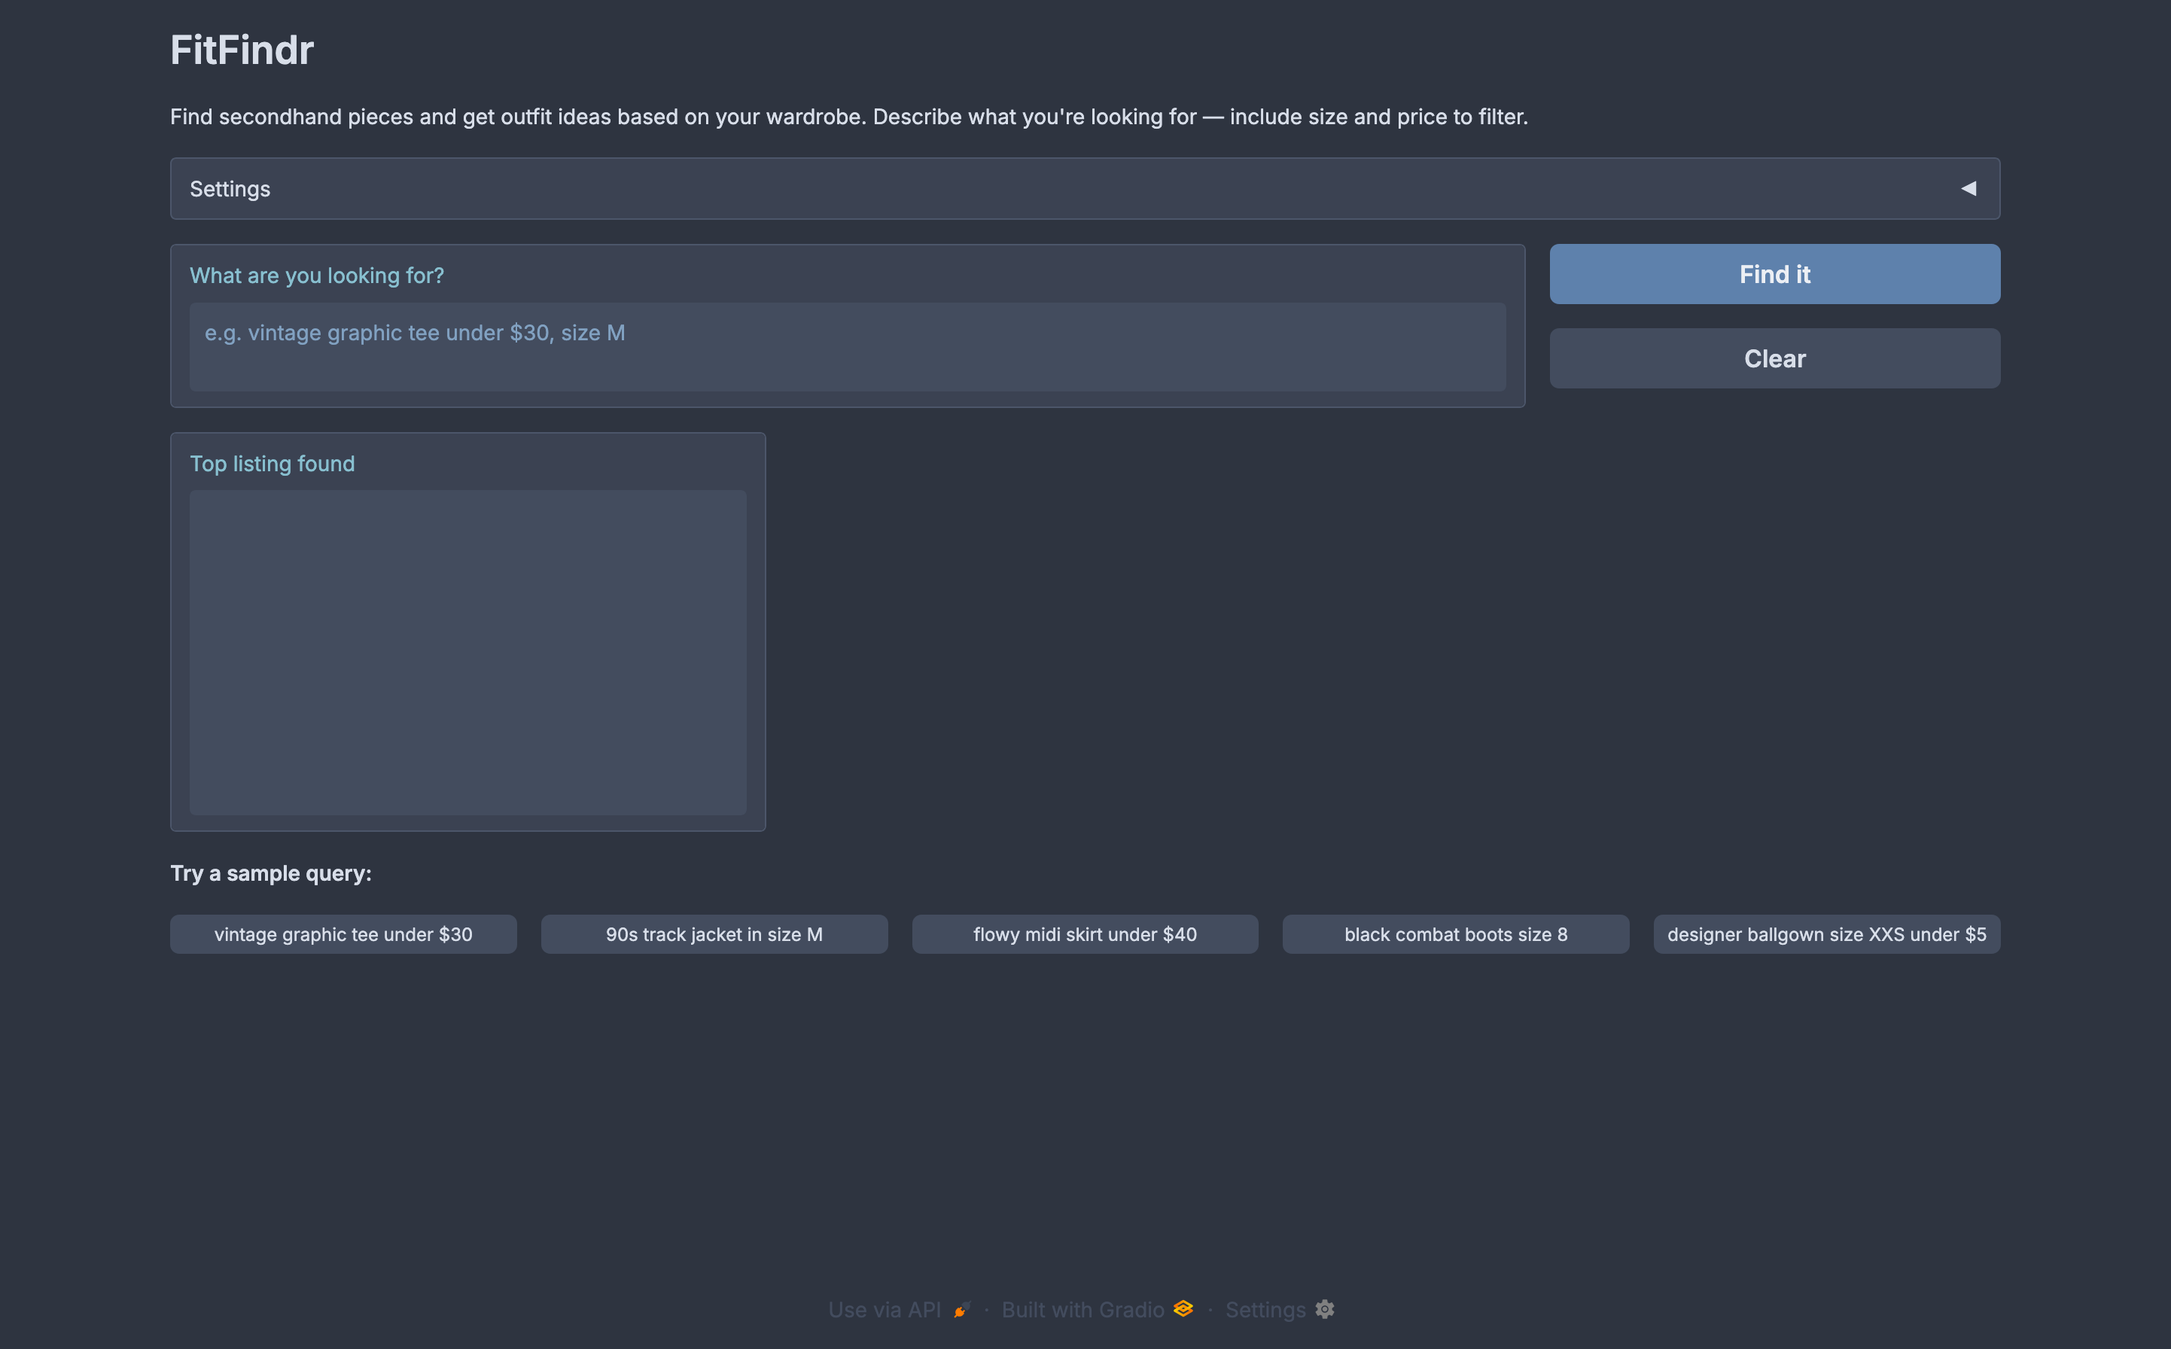
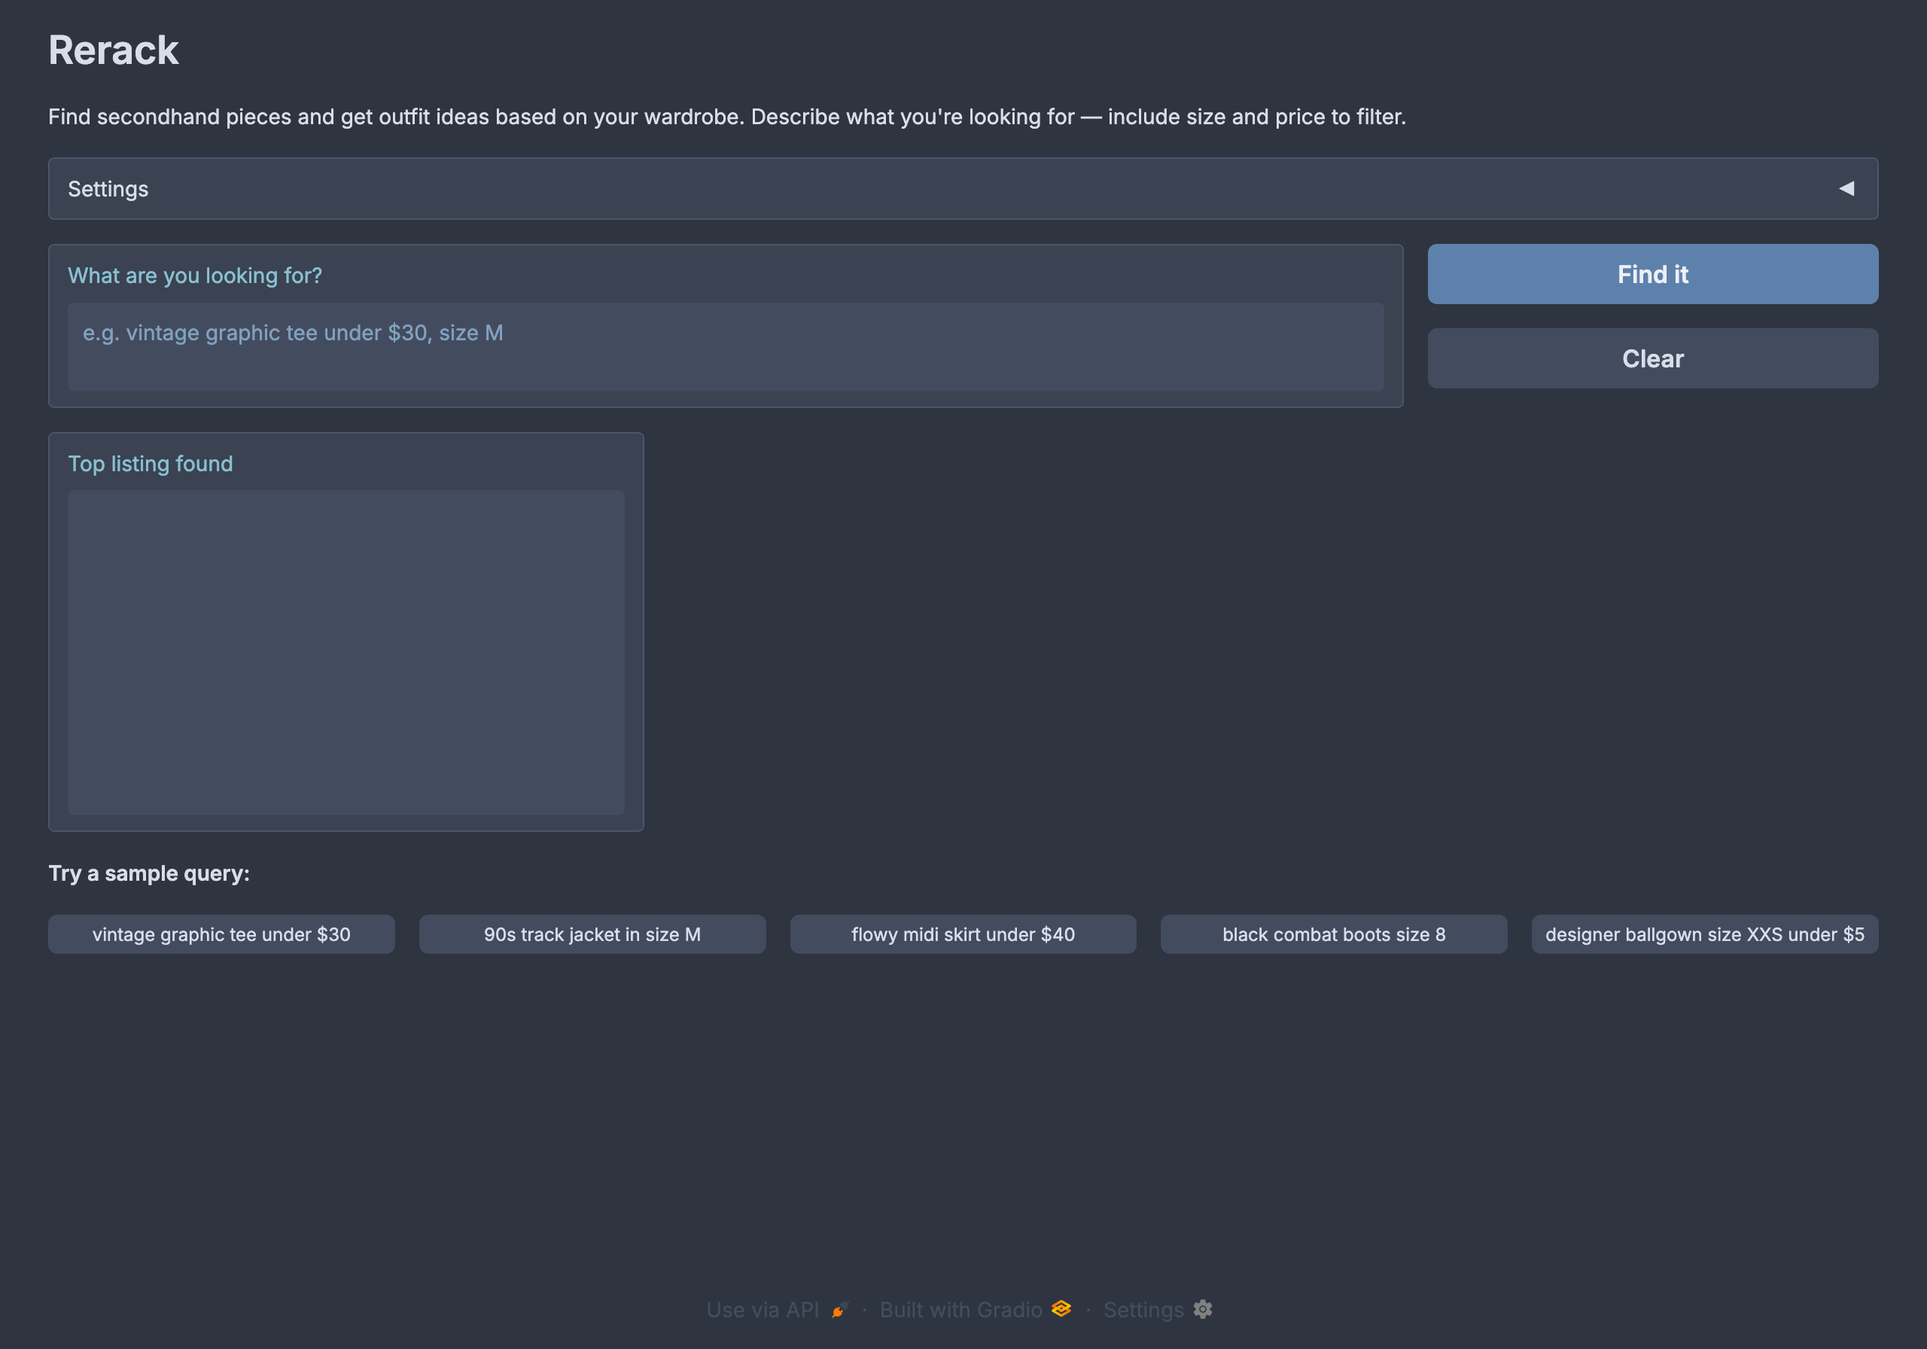
docs: rewrite README, rename project to Rerack, update remote
Condense the README to a standard portfolio template (hero, demo,
about, features, getting started, usage, what-I-learned, roadmap,
license, acknowledgments) and drop content now covered by
docs/ARCHITECTURE.md. Rename the project from FitFindr to Rerack
throughout, and update the clone URL and CI badge to the new remote
(asrarsyed/rerack). Delete two orphaned coursework screenshots
(milestone05.png, pytest.png) that weren't referenced anywhere, and
add a fresh example screenshot alongside an updated home screen.

diff --git a/README.md b/README.md
@@ -1,256 +1,120 @@
-# FitFindr
+<div align="center">
 
-A secondhand clothing finder with AI-powered outfit suggestions. Describe what you're looking for in plain English — FitFindr searches mock listings, compares prices, suggests outfits from your wardrobe, and generates a shareable fit card.
+# Rerack
 
-## Demo Video
+**AI-powered secondhand clothing finder that searches listings, checks prices, and builds outfit ideas from your wardrobe.**
 
-> **Add your video link here:**
-> [Demo Video](YOUR_VIDEO_LINK_HERE)
+[![License](https://img.shields.io/badge/license-MIT-blue.svg)](LICENSE)
+[![tests](https://github.com/asrarsyed/rerack/actions/workflows/tests.yml/badge.svg)](https://github.com/asrarsyed/rerack/actions/workflows/tests.yml)
+![Python](https://img.shields.io/badge/python-3.10%2B-blue.svg)
 
-## Images
-
-> View images [here](images.md)
-
-<!-- Paste a YouTube, Loom, or Google Drive link above. Remove this comment when done. -->
+</div>
 
 ---
 
-## Setup
+## Demo
+
+![Rerack home screen](assets/home.png)
+![Rerack example](assets/example.png)
+
+Describe what you want in plain English. Rerack searches a mock listings dataset, compares prices against similar items, suggests an outfit from your wardrobe, and writes a shareable caption.
+
+*A short demo video/GIF walking through a query is a planned addition, not yet recorded.*
+
+## About
+
+Rerack is a small agent that plans and executes a fixed sequence of tool calls instead of letting an LLM decide what to do next at each step. Given a query like "vintage graphic tee under $30, size M," it parses the request with regex, searches a mock dataset, retries with loosened constraints if nothing matches, benchmarks the price against comparable listings, and calls an LLM twice: once for outfit ideas, once for a caption.
+
+**Why I built this:** to practice designing a deterministic multi-tool agent loop with explicit state management and real error handling, rather than a single prompt-and-hope chat wrapper.
+
+### Built With
+
+- [Python](https://www.python.org/)
+- [Groq](https://groq.com/) (`llama-3.3-70b-versatile`)
+- [Gradio](https://www.gradio.app/)
+- [pytest](https://pytest.org/)
+
+## Features
+
+- **search_listings**: keyword and filter search over 100 mock listings, scored by token overlap.
+- **retry_search**: progressively loosens size and price filters when a search comes up empty.
+- **compare_prices**: benchmarks an item's price against comparable listings in the same category.
+- **suggest_outfit**: LLM-generated outfit ideas, tailored to the user's wardrobe when one exists.
+- **create_fit_card**: LLM-generated shareable caption with price context and hashtags.
+
+See [docs/ARCHITECTURE.md](docs/ARCHITECTURE.md) for the pipeline diagram, tool details, and state management.
+
+## Getting Started
+
+### Prerequisites
 
 ```bash
-pip install -r requirements.txt
+python >= 3.10
 ```
 
-Set your Groq API key (get a free key at [console.groq.com](https://console.groq.com)):
+A free Groq API key from [console.groq.com](https://console.groq.com).
+
+### Installation
 
 ```bash
-# Option A: .env file
-echo "GROQ_API_KEY=your_key_here" > .env
-
-# Option B: direnv (if you have it installed)
-echo 'export GROQ_API_KEY="$(pass api-keys/groq)"' > .envrc
-direnv allow
+git clone git@github.com:asrarsyed/rerack.git
+cd rerack
+pip install -e ".[dev]"
+cp .env.example .env
+# then edit .env and set GROQ_API_KEY
 ```
 
-Run the app:
+### Run
 
 ```bash
 python app.py
 ```
 
-Open the URL shown in the terminal (usually `http://localhost:7860`).
+Open the URL printed in the terminal, usually `http://localhost:7860`.
 
-Run tests:
+### Test
 
 ```bash
-python -m pytest tests/test_tools.py -v  
+pytest
 ```
 
----
+Tests mock the Groq client, so no API key is needed to run the suite.
 
-## Tool Inventory
+## Usage
 
-### Tool 1: `search_listings`
+Example query: "vintage graphic tee under $30, size M."
 
-**File:** `tools.py`
+1. The parser extracts `description="vintage graphic tee"`, `size="M"`, `max_price=30.0`.
+2. `search_listings` returns matches sorted by relevance, then price.
+3. `compare_prices` checks the top result against similar listings and returns a verdict.
+4. `suggest_outfit` asks the LLM for outfit ideas built around the item.
+5. `create_fit_card` writes a caption combining the item, the outfit, and the price verdict.
 
-| Parameter | Type | Description |
-|---|---|---|
-| `description` | `str` | Natural language item description (filler already stripped by parser) |
-| `size` | `str \| None` | Size filter (e.g. `"M"`, `"XS"`) — substring match, case-insensitive |
-| `max_price` | `float \| None` | Upper price bound inclusive |
-| `listings` | `list[dict] \| None` | Pre-loaded listings cache; loads from disk if `None` |
+```python
+from agent import run_agent
+from utils.data_loader import get_example_wardrobe
 
-**Returns:** `list[dict]` — matched listings sorted by relevance score descending, then price ascending. Empty list if no matches.
-
-**Purpose:** Filters the 40-listing dataset by price and size, then scores each candidate by token overlap between the query and the listing's composite text field (title + description + style tags + brand + category). Style tag hits count double as a quality signal. Items scoring zero are excluded.
-
----
-
-### Tool 2: `suggest_outfit`
-
-**File:** `tools.py`
-
-| Parameter | Type | Description |
-|---|---|---|
-| `item` | `dict` | The selected listing dict |
-| `wardrobe` | `dict` | User's wardrobe dict with an `items` key |
-
-**Returns:** `str` — outfit suggestion text. Never empty; falls back to `"Unable to generate outfit suggestions. Try pairing with neutral basics."` on LLM error.
-
-**Purpose:** Calls the Groq LLM (`llama-3.3-70b-versatile`) to generate outfit ideas. Two prompt branches: if the wardrobe is empty, asks for 2 general outfits built around the item (`temperature=0.7`); if the wardrobe has items, asks the model to suggest outfits using only the named pieces the user actually owns (`temperature=0.5` to reduce hallucination of non-owned items).
-
----
-
-### Tool 3: `create_fit_card`
-
-**File:** `tools.py`
-
-| Parameter | Type | Description |
-|---|---|---|
-| `outfit` | `str` | Outfit suggestion text from Tool 2 |
-| `item` | `dict` | The selected listing dict |
-| `price_verdict` | `dict \| None` | Price comparison result from Tool 4; omit to skip price insight |
-
-**Returns:** `str` — 2-4 sentence first-person fit caption ending with 3-5 hashtags. Returns a descriptive error string if `outfit` is empty or whitespace — never raises.
-
-**Purpose:** Generates a social-media-style caption summarizing the find. If a price verdict is available and `comparable_count >= 3`, the prompt includes a verdict sentence (e.g. "This one's a steal — comparables average $22."). Uses `temperature=0.9` for expressive output.
-
----
-
-### Tool 4: `compare_prices`
-
-**File:** `tools.py`
-
-| Parameter | Type | Description |
-|---|---|---|
-| `item` | `dict` | The listing to evaluate |
-| `listings` | `list[dict] \| None` | Pre-loaded listings cache; loads from disk if `None` |
-
-**Returns:** `dict` with keys: `verdict` (`"great deal"`, `"fair"`, `"overpriced"`, or `"no comparables"`), `avg_price` (`float`), `min_price` (`float`), `max_price` (`float`), `comparable_count` (`int`).
-
-**Purpose:** Finds comparable listings (same category + at least 1 shared style tag; falls back to same category only) and benchmarks the item's price against their average. Thresholds: `<= 80%` of avg → great deal, `<= 110%` → fair, `> 110%` → overpriced. Verdict is suppressed from the fit card if `comparable_count < 3` (too few data points).
-
----
-
-### Tool 5: `retry_search`
-
-**File:** `tools.py`
-
-| Parameter | Type | Description |
-|---|---|---|
-| `description` | `str` | Cleaned description from the query parser |
-| `size` | `str \| None` | Original size filter |
-| `max_price` | `float \| None` | Original price ceiling |
-
-**Returns:** `dict` with keys: `results` (`list[dict]`), `loosened` (`list[str]` — human-readable descriptions of what was relaxed), `final_size` (always `None`), `final_max_price` (`float \| None`).
-
-**Purpose:** Progressively loosens constraints until results are found, stopping at the first non-empty result: (1) drop size filter, (2) drop size + raise price ceiling 25%, (3) drop size + drop price entirely. The `loosened` list surfaces in the UI so the user knows what changed.
-
----
-
-## How the Planning Loop Works
-
-The agent in `agent.py` is a linear decision loop — no LLM decides what to call next. The sequence is deterministic, with two conditional branches:
-
-```
-Parse query (regex, no LLM)
-    → extract description, size, max_price
-
-Primary search
-    → if results found: continue
-    → if empty: trigger retry_search (3-step constraint loosening)
-        → if still empty: set error message, return early
-
-Select top result (results[0] — highest relevance score, lowest price as tiebreaker)
-
-compare_prices (ALWAYS — runs on both normal and retry paths)
-    → verdict suppressed in fit card if comparable_count < 3
-
-suggest_outfit
-    → empty wardrobe branch vs. populated wardrobe branch
-
-create_fit_card (receives outfit suggestion + price verdict)
-
-Return completed session dict
+session = run_agent(
+    query="vintage graphic tee under $30, size M",
+    wardrobe=get_example_wardrobe(),
+)
+print(session["fit_card"])
 ```
 
-The key decision points:
+## What I Learned
 
-1. **Did the primary search find anything?** If not, retry before giving up. The retry loop tries three progressively looser constraint sets and stops at the first hit.
-2. **Was retry also empty?** Return an error string — not an exception. The UI displays it in panel 1.
-3. **How many comparables exist?** If fewer than 3, the price verdict is computed but not surfaced to the user (unreliable with a small sample).
-4. **Is the wardrobe empty?** `suggest_outfit` uses a different prompt with higher temperature — general styling advice instead of wardrobe-specific pairings.
+- Items found through the retry path need price context just as much as items found on the first search, so `compare_prices` runs on both paths rather than only the happy path.
+- Mocking the Groq client at a single seam (`_get_groq_client`) keeps the test suite fast and deterministic without touching the actual prompt logic, and means CI never needs a live API key.
 
----
+## Roadmap
 
-## State Management
+- [x] Five-tool planning loop with deterministic control flow
+- [x] Retry logic with progressive constraint loosening
+- [ ] Swap mock listings for a one-time scraped dataset (with LLM-derived style tags)
+- [ ] Multi-turn conversation memory across queries
 
-All intermediate state lives in a single session dict created by `_new_session()` at the start of each `run_agent()` call. Nothing is shared between calls.
+## Acknowledgments
 
-| Key | Set by | Read by | Purpose |
-|---|---|---|---|
-| `query` | `_new_session` | `_parse_query` | Original raw user input |
-| `parsed` | `_parse_query` | planning loop | Extracted description, size, max_price |
-| `all_listings_cache` | `run_agent` (step 2) | `search_listings`, `compare_prices` | Listings loaded once per call — avoids re-reading JSON |
-| `search_results` | primary search + retry | planning loop | Full result list; `results[0]` becomes selected item |
-| `selected_item` | planning loop | Tools 2, 3, 4 | The listing being styled |
-| `price_verdict` | `compare_prices` | `create_fit_card`, `handle_query` | Price context threaded into fit card and UI panel |
-| `outfit_suggestion` | `suggest_outfit` | `create_fit_card` | Passed directly as Tool 3's first argument |
-| `fit_card` | `create_fit_card` | `handle_query` | Final output for panel 3 |
-| `retry_attempted` | retry branch | UI note | Whether filters were loosened |
-| `retry_loosened` | `retry_search` | `handle_query` | Human-readable list of what was relaxed |
-| `error` | error branch | `handle_query` | If set, UI shows this and skips panels 2 and 3 |
-
-The listings cache is the most important optimization: `load_listings()` reads disk once and the result is passed as a `listings=` keyword argument into both `search_listings()` and `compare_prices()`. Existing call sites that omit `listings` still work — the tools load from disk internally.
-
----
-
-## Error Handling
-
-| Tool | Failure mode | What happens |
-|---|---|---|
-| `search_listings` | No keyword overlap or filter mismatch | Returns `[]` — never raises |
-| `search_listings` | Empty description string | Returns `[]` — tokenizer produces empty set, all scores are 0 |
-| `retry_search` | All 3 loosening steps fail | Returns `{"results": [], "loosened": [], ...}` |
-| `suggest_outfit` | LLM API error | Returns fallback string, never empty |
-| `create_fit_card` | Empty/whitespace `outfit` arg | Returns `"Couldn't generate a fit card — no outfit suggestion was available."` |
-| `compare_prices` | Fewer than 3 comparables | Returns verdict but `comparable_count < 3`; fit card and UI suppress it |
-| `compare_prices` | Empty item dict | Returns `{"verdict": "no comparables", ...}` — never raises |
-| `run_agent` | Still no results after retry | Sets `session["error"]`; `handle_query` shows error in panel 1, panels 2-3 empty |
-
-**Concrete example from testing (Milestone 5):**
-
-Query: `"designer ballgown size XXS under $5"`
-
-```
-search_listings("designer ballgown", size="XXS", max_price=5) → []
-retry_search("designer ballgown", "XXS", 5):
-  step 1: drop size → []
-  step 2: drop size, raise price to $6.25 → []
-  step 3: drop size + price → []
-  returns {"results": [], "loosened": [], ...}
-agent sets error: "No listings found for 'designer ballgown' even after relaxing filters. Try different keywords."
-```
-
-The agent never crashes. The UI shows the error in the listing panel with actionable guidance.
-
----
-
-## Spec Reflection
-
-**One way the spec helped:** The spec required documenting the planning loop's conditional logic in `planning.md` before writing any code. This forced the decision about where `compare_prices` should run — the initial workflow diagram placed it only on the normal path. Writing it out made it obvious that an item found via loosened constraints needs price context *more*, not less. That correction happened at the planning stage, not during debugging.
-
-**One way implementation diverged from the spec:** The spec described `retry_search` returning a `loosened` list with messages like `"size filter removed — showing all sizes"`. In the impossible-query test (`designer ballgown`), the `loosened` list was empty even though retry ran, because the query fails all three loosening steps and none of them produce results — there's nothing to report. The spec assumed retry would always find *something* on at least one step. The implementation handles the full-failure case correctly (empty results + empty loosened list), but the spec didn't document this path explicitly.
-
----
-
-## AI Usage
-
-**Instance 1: Planning loop architecture**
-
-I directed the AI to evaluate a proposed 5-tool workflow diagram and identify integration risks before writing any code. Input: the workflow diagram showing compare_prices only on the normal search path, plus the tool specs. The AI identified that compare_prices should run on both the normal and retry paths — omitting it on retry produces a fit card with no price context, which is worse than the normal case. I accepted this correction and it shaped the final `run_agent()` structure.
-
-**Instance 2: Skeleton code with directive comments**
-
-I directed the AI to implement skeleton files for `agent.py` and `app.py` with numbered TODO comments matching the planning doc steps exactly. The AI produced accurate stubs. I overrode one decision: the AI initially left `_parse_query()` returning `query.lower().strip()` as a passthrough. I directed it to implement the full regex extraction (price pattern, size pattern, filler phrase stripping) per the spec — the stub was too shallow to be useful as a starting point for the next milestone.
-
----
-
-## Project Structure
-
-```
-ai201-project02/
-├── data/
-│   ├── listings.json              # 40 mock secondhand listings
-│   └── wardrobe_schema.json       # Wardrobe format + example wardrobe
-├── utils/
-│   └── data_loader.py             # load_listings, get_example_wardrobe, get_empty_wardrobe
-├── tests/
-│   └── test_tools.py              # 25 pytest tests covering all 5 tools
-├── tools.py                       # All 5 tools
-├── agent.py                       # _parse_query, run_agent planning loop
-├── app.py                         # Gradio UI, handle_query
-├── planning.md                    # Architecture, tool specs, state diagram
-└── requirements.txt
-```
+- [Codepath](https://github.com/jamjamgobambam/ai201-project2-fitfindr-starter), the original starter template
+- [Groq](https://groq.com/) for fast LLM inference
+- [Gradio](https://www.gradio.app/) for the UI framework
